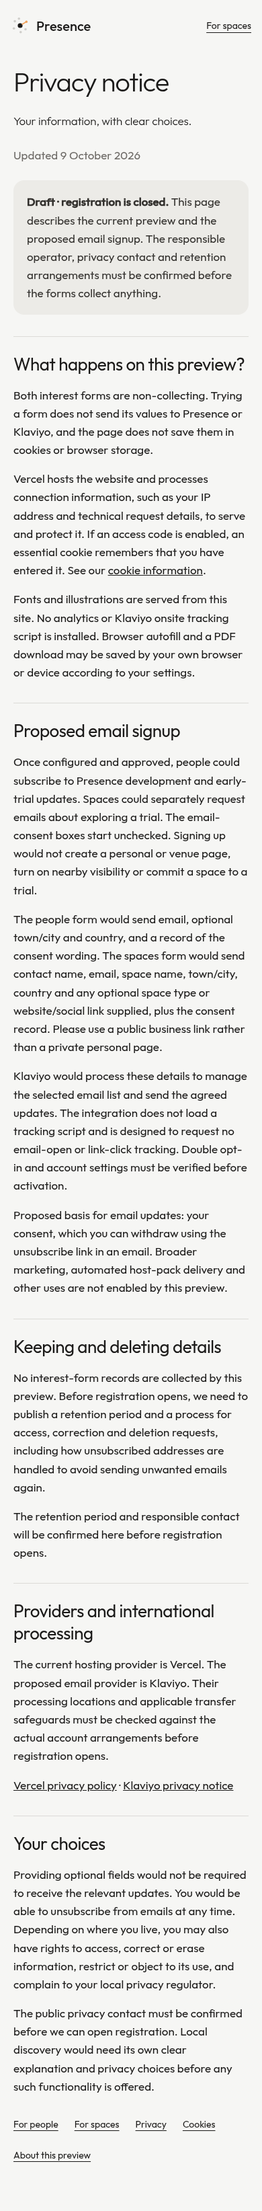
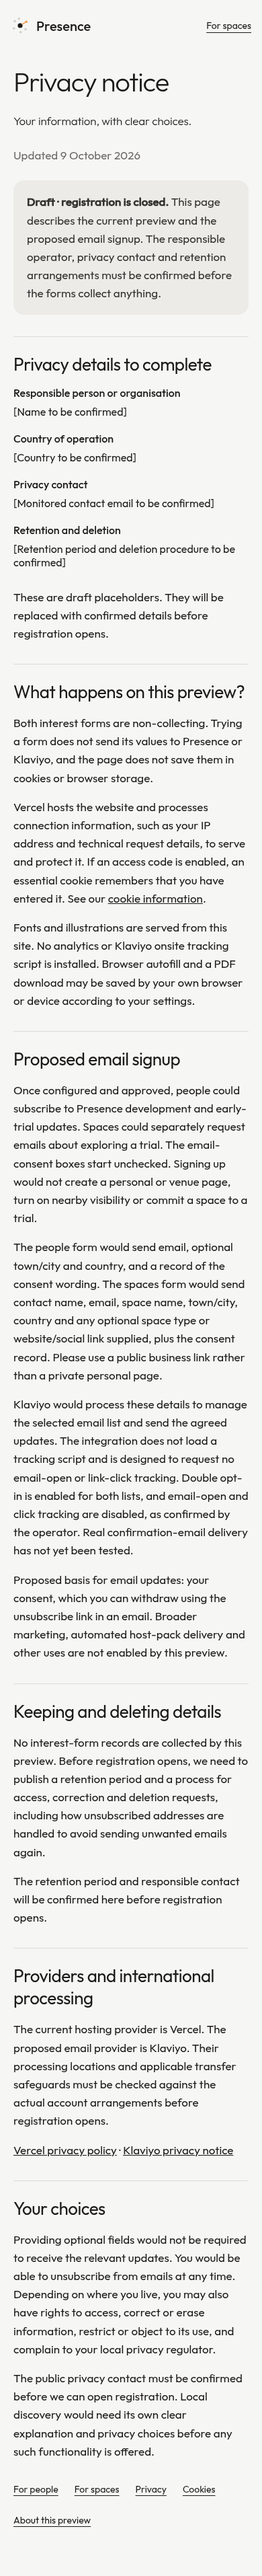
Add draft privacy placeholders and confirm tracking is disabled

Changed region(s): [[0.0308, 0.0, 0.9231, 0.9927]]

diff --git a/privacy/index.html b/privacy/index.html
@@ -2,8 +2,9 @@
 <html lang="en"><head><meta charset="utf-8"><meta name="viewport" content="width=device-width, initial-scale=1"><title>Privacy notice — Presence</title><meta name="robots" content="noindex, nofollow"><link rel="icon" href="/mark.svg" type="image/svg+xml"><link rel="stylesheet" href="/assets/fonts/outfit.css"><link rel="stylesheet" href="/styles.css"></head><body>
 <a class="skip" href="#main">Skip to content</a><header class="host-header"><a class="host-brand" href="/"><img src="/mark.svg" width="28" height="28" alt="">Presence</a><a href="/spaces">For spaces</a></header>
 <main class="legal-main" id="main" tabindex="-1"><h1>Privacy notice</h1><p class="lede">Your information, with clear choices.</p><p class="small">Updated 9 October 2026</p><div class="notice" role="note"><p><strong>Draft · registration is closed.</strong> This page describes the current preview and the proposed email signup. The responsible operator, privacy contact and retention arrangements must be confirmed before the forms collect anything.</p></div>
+<section aria-labelledby="details-h"><h2 id="details-h">Privacy details to complete</h2><dl><dt>Responsible person or organisation</dt><dd>[Name to be confirmed]</dd><dt>Country of operation</dt><dd>[Country to be confirmed]</dd><dt>Privacy contact</dt><dd>[Monitored contact email to be confirmed]</dd><dt>Retention and deletion</dt><dd>[Retention period and deletion procedure to be confirmed]</dd></dl><p>These are draft placeholders. They will be replaced with confirmed details before registration opens.</p></section>
 <section aria-labelledby="current-h"><h2 id="current-h">What happens on this preview?</h2><p>Both interest forms are non-collecting. Trying a form does not send its values to Presence or Klaviyo, and the page does not save them in cookies or browser storage.</p><p>Vercel hosts the website and processes connection information, such as your IP address and technical request details, to serve and protect it. If an access code is enabled, an essential cookie remembers that you have entered it. See our <a href="/cookies">cookie information</a>.</p><p>Fonts and illustrations are served from this site. No analytics or Klaviyo onsite tracking script is installed. Browser autofill and a PDF download may be saved by your own browser or device according to your settings.</p></section>
-<section aria-labelledby="signup-h"><h2 id="signup-h">Proposed email signup</h2><p>Once configured and approved, people could subscribe to Presence development and early-trial updates. Spaces could separately request emails about exploring a trial. The email-consent boxes start unchecked. Signing up would not create a personal or venue page, turn on nearby visibility or commit a space to a trial.</p><p>The people form would send email, optional town/city and country, and a record of the consent wording. The spaces form would send contact name, email, space name, town/city, country and any optional space type or website/social link supplied, plus the consent record. Please use a public business link rather than a private personal page.</p><p>Klaviyo would process these details to manage the selected email list and send the agreed updates. The integration does not load a tracking script and is designed to request no email-open or link-click tracking. Double opt-in and account settings must be verified before activation.</p><p>Proposed basis for email updates: your consent, which you can withdraw using the unsubscribe link in an email. Broader marketing, automated host-pack delivery and other uses are not enabled by this preview.</p></section>
+<section aria-labelledby="signup-h"><h2 id="signup-h">Proposed email signup</h2><p>Once configured and approved, people could subscribe to Presence development and early-trial updates. Spaces could separately request emails about exploring a trial. The email-consent boxes start unchecked. Signing up would not create a personal or venue page, turn on nearby visibility or commit a space to a trial.</p><p>The people form would send email, optional town/city and country, and a record of the consent wording. The spaces form would send contact name, email, space name, town/city, country and any optional space type or website/social link supplied, plus the consent record. Please use a public business link rather than a private personal page.</p><p>Klaviyo would process these details to manage the selected email list and send the agreed updates. The integration does not load a tracking script and is designed to request no email-open or link-click tracking. Double opt-in is enabled for both lists, and email-open and click tracking are disabled, as confirmed by the operator. Real confirmation-email delivery has not yet been tested.</p><p>Proposed basis for email updates: your consent, which you can withdraw using the unsubscribe link in an email. Broader marketing, automated host-pack delivery and other uses are not enabled by this preview.</p></section>
 <section aria-labelledby="retention-h"><h2 id="retention-h">Keeping and deleting details</h2><p>No interest-form records are collected by this preview. Before registration opens, we need to publish a retention period and a process for access, correction and deletion requests, including how unsubscribed addresses are handled to avoid sending unwanted emails again.</p><p>The retention period and responsible contact will be confirmed here before registration opens.</p></section>
 <section aria-labelledby="providers-h"><h2 id="providers-h">Providers and international processing</h2><p>The current hosting provider is Vercel. The proposed email provider is Klaviyo. Their processing locations and applicable transfer safeguards must be checked against the actual account arrangements before registration opens.</p><p><a href="https://vercel.com/legal/privacy-policy">Vercel privacy policy</a> · <a href="https://www.klaviyo.com/legal/privacy/privacy-notice">Klaviyo privacy notice</a></p></section>
 <section aria-labelledby="choices-h"><h2 id="choices-h">Your choices</h2><p>Providing optional fields would not be required to receive the relevant updates. You would be able to unsubscribe from emails at any time. Depending on where you live, you may also have rights to access, correct or erase information, restrict or object to its use, and complain to your local privacy regulator.</p><p>The public privacy contact must be confirmed before we can open registration. Local discovery would need its own clear explanation and privacy choices before any such functionality is offered.</p></section><footer class="host-footer"><nav class="legal-nav" aria-label="Site information"><a href="/">For people</a><a href="/spaces">For spaces</a><a href="/privacy">Privacy</a><a href="/cookies">Cookies</a><a href="/terms">About this preview</a></nav></footer></main></body></html>

diff --git a/signup-config.js b/signup-config.js
@@ -8,6 +8,7 @@ window.PRESENCE_SIGNUP_CONFIG = window.PRESENCE_SIGNUP_CONFIG || {
   privacyApproved: false,
   // User confirmed double opt-in is enabled on both lists.
   doubleOptInVerified: true,
-  emailTrackingDisabled: false,
+  // User confirmed email-open and click tracking are off.
+  emailTrackingDisabled: true,
   consentVersion: 'presence-updates-v1'
 };

diff --git a/docs/PROJECT_BRIEF.md b/docs/PROJECT_BRIEF.md
@@ -35,4 +35,4 @@ The chosen domain is meetpresence.com; Presence remains the brand. Domain purcha
 
 A static four-page host PDF supports outreach or sharing after an initial conversation: purpose, hoped-for benefits, trial expectations and unresolved questions. Its editable template supports manual editions with relevant photography (host-supplied with permission or licensed). The starter pack uses illustrative stock photographs, not participating venues. Automatic personalisation and distribution remain follow-on work; the PDF does not enable registration or email delivery.
 
-Klaviyo is the requested email provider. A static client-subscription integration is prepared with separate people/space lists, explicit consent and double opt-in requirements, with user-supplied public site/list IDs configured. It remains disabled pending confirmed privacy/account settings and an approved hostname. Privacy/cookie/preview-information pages describe the current non-collecting state; the draft explains that responsible-operator, contact and retention arrangements must be confirmed; the unfinished operator placeholder block is omitted at the user’s request. Site fonts are served locally. Real provider testing, signup activation, campaigns/flows and automatic PDF delivery are outstanding work, not completed features.
+Klaviyo is the requested email provider. A static client-subscription integration is prepared with separate people/space lists, explicit consent and double opt-in requirements, with user-supplied public site/list IDs configured. It remains disabled pending confirmed privacy/account settings and an approved hostname. Privacy/cookie/preview-information pages describe the current non-collecting state; the draft explains that responsible-operator, contact and retention arrangements must be confirmed; explicit placeholders for those details are included at the user’s request. The user has confirmed double opt-in on both lists, configured sender/domain and disabled email-open/click tracking. Site fonts are served locally. Real provider testing, signup activation, campaigns/flows and automatic PDF delivery are outstanding work, not completed features.

diff --git a/docs/KLAVIYO_SETUP.md b/docs/KLAVIYO_SETUP.md
@@ -19,7 +19,7 @@ The integration is prepared but disabled. This code does not create or change Kl
 4. Put the public site ID and the two public list IDs in `signup-config.js`. Set the verified hostname(s) explicitly in `allowedHosts`. Do not allow every Vercel preview hostname. Set `privacyApproved`, `doubleOptInVerified` and `emailTrackingDisabled` only after those checks are complete. `enabled` is the final activation switch.
 5. Complete an explicitly authorised provider test with controlled recipients before opening collection. Current browser tests mock **all** Klaviyo requests, so they send no email and do not validate the real account, CORS or double opt-in delivery. Record the test result and obtain approval of the final privacy configuration before activating real signup.
 
-The user-supplied public company/site ID and both list IDs are configured in `signup-config.js`. The user has confirmed double opt-in is enabled for both lists. Remaining inputs are legal operator/country/privacy contact, intended email scope and retention process, plus confirmation of email tracking settings and the allowed hostname. Real provider delivery has not been tested. No account access exists in this cloud workspace. Do not ask for a private key as a workaround.
+The user-supplied public company/site ID and both list IDs are configured in `signup-config.js`. The user has confirmed double opt-in is enabled for both lists, email-open/click tracking is off and `hello@meetpresence.com` is configured as the sender, with `send.meetpresence.com` as the sending domain. Remaining inputs are responsible operator/country/privacy contact, intended email scope and retention/deletion process, plus the allowed hostname. The privacy draft contains explicit placeholders at the user’s request. Real provider delivery has not been tested. No account access exists in this cloud workspace. Do not ask for a private key as a workaround.
 
 ## Fields sent
 
